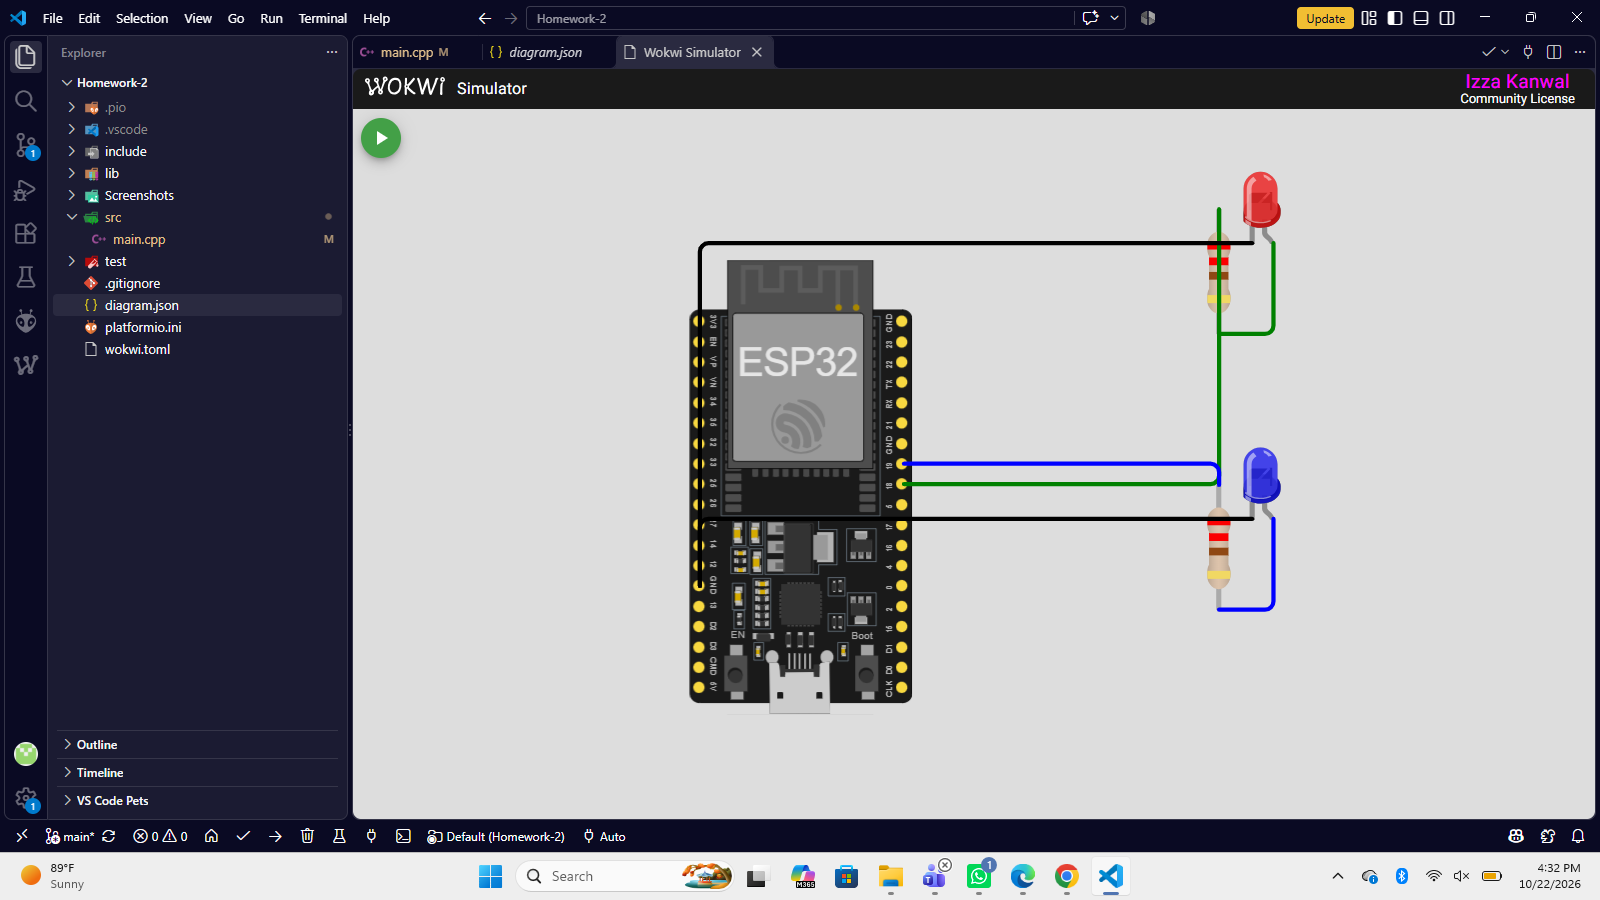
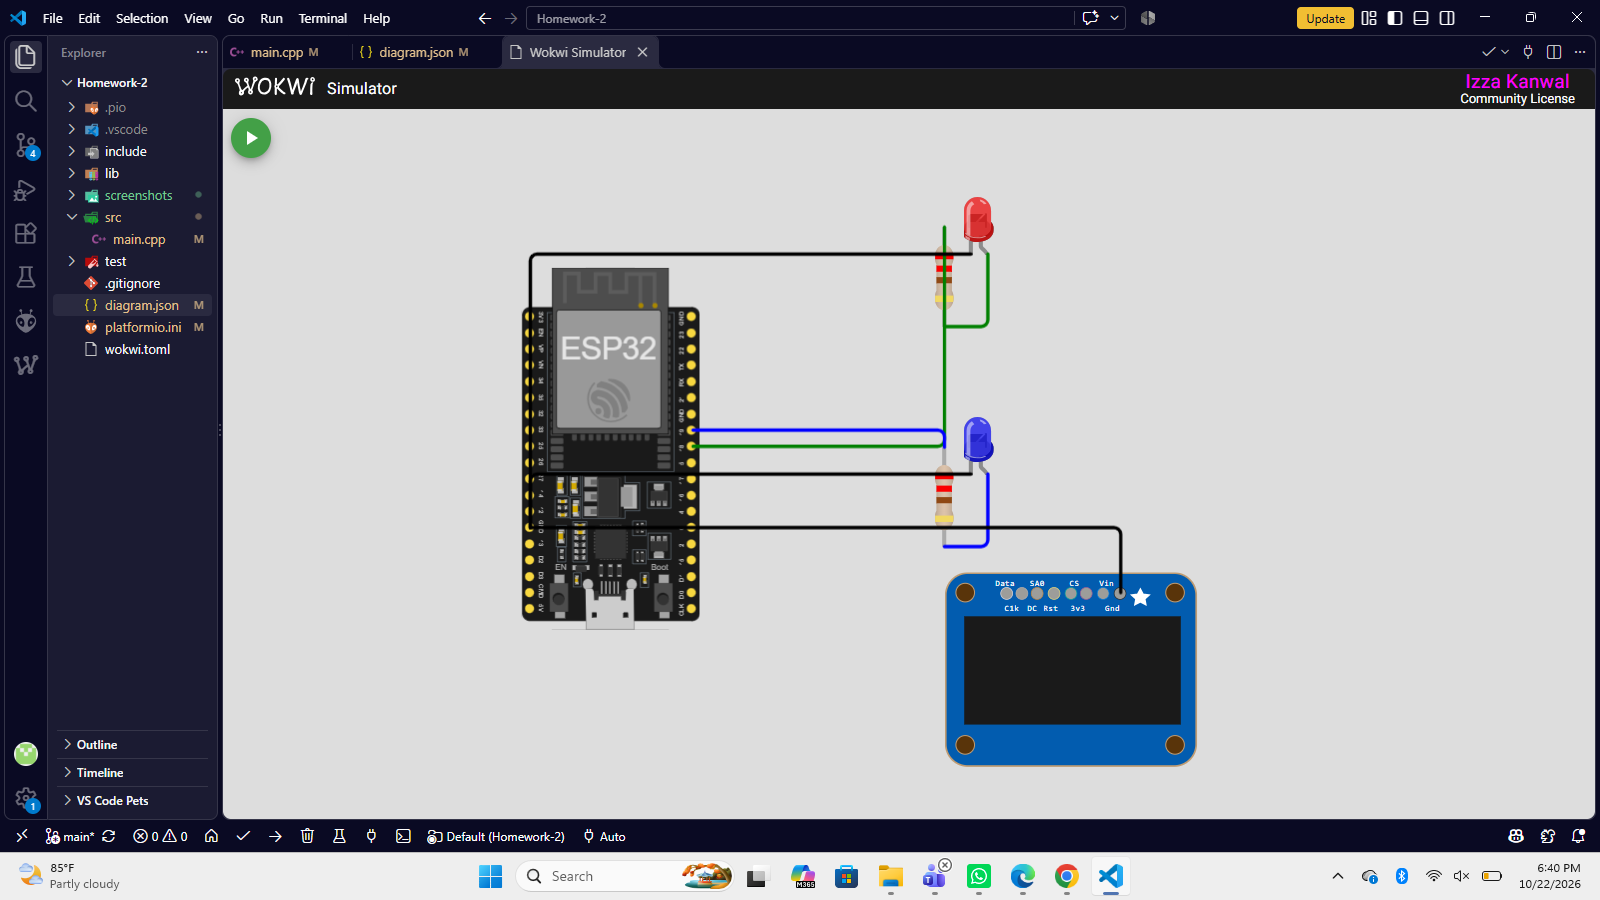
complete homework

diff --git a/Homework-2/src/main.cpp b/Homework-2/src/main.cpp
@@ -1,5 +1,8 @@
 
 #include <Arduino.h>
+#include <Wire.h>
+#include <Adafruit_GFX.h>
+#include <Adafruit_SSD1306.h>
 
 // LED GPIO pins
 const int LED1 = 18;
@@ -9,60 +12,119 @@ const int LED2 = 19;
 const int CHANNEL1 = 0;
 const int CHANNEL2 = 2;
 
-// Different PWM frequencies
+// PWM settings
 const int FREQ1 = 1000;
 const int FREQ2 = 5000;
 const int RESOLUTION = 8;
 
+// OLED settings
+#define SCREEN_WIDTH 128
+#define SCREEN_HEIGHT 64
+#define OLED_RESET -1
+#define OLED_ADDRESS 0x3C
+
+Adafruit_SSD1306 display(
+    SCREEN_WIDTH, SCREEN_HEIGHT, &Wire, OLED_RESET);
+
 // Duty-cycle values: 0 to 255
 int duty1 = 0;
-int duty2 = 0;
+int duty2 = 255;
+
+void updateOLED()
+{
+    int percent1 = (duty1 * 100) / 255;
+    int percent2 = (duty2 * 100) / 255;
+
+    display.clearDisplay();
+    display.setTextSize(1);
+    display.setTextColor(SSD1306_WHITE);
+
+    display.setCursor(0, 0);
+    display.println("PWM MONITOR");
+
+    display.setCursor(0, 18);
+    display.print("LED1: ");
+    display.print(percent1);
+    display.print("%");
+
+    display.setCursor(0, 28);
+    display.print("Freq: ");
+    display.print(FREQ1);
+    display.println(" Hz");
+
+    display.setCursor(0, 42);
+    display.print("LED2: ");
+    display.print(percent2);
+    display.print("%");
+
+    display.setCursor(0, 52);
+    display.print("Freq: ");
+    display.print(FREQ2);
+    display.println(" Hz");
+
+    display.display();
+}
 
 void setup()
 {
-  Serial.begin(115200);
+    Serial.begin(115200);
 
- 
-  double actualFreq1 = ledcSetup(CHANNEL1, FREQ1, RESOLUTION);
-  ledcAttachPin(LED1, CHANNEL1);
+    // Start I2C: SDA = GPIO 21, SCL = GPIO 22
+    Wire.begin(21, 22);
 
-  double actualFreq2 = ledcSetup(CHANNEL2, FREQ2, RESOLUTION);
-  ledcAttachPin(LED2, CHANNEL2);
+    if (!display.begin(SSD1306_SWITCHCAPVCC, OLED_ADDRESS))
+    {
+        Serial.println("OLED initialization failed!");
+        while (true)
+        {
+            delay(100);
+        }
+    }
 
-  Serial.printf("LED1 configured frequency: %.0f Hz\n", actualFreq1);
-  Serial.printf("LED2 configured frequency: %.0f Hz\n", actualFreq2);
+    display.clearDisplay();
+    updateOLED();
 
+    double actualFreq1 =
+        ledcSetup(CHANNEL1, FREQ1, RESOLUTION);
+    ledcAttachPin(LED1, CHANNEL1);
+
+    double actualFreq2 =
+        ledcSetup(CHANNEL2, FREQ2, RESOLUTION);
+    ledcAttachPin(LED2, CHANNEL2);
+
+    Serial.printf("LED1 configured frequency: %.0f Hz\n",
+                  actualFreq1);
+    Serial.printf("LED2 configured frequency: %.0f Hz\n",
+                  actualFreq2);
 }
 
 void loop()
 {
-  // Fade LED 1 up and LED 2 down
-  for (int duty = 0; duty <= 255; duty++)
-  {
-    duty1 = duty;
-    duty2 = 255 - duty;
-
-    ledcWrite(CHANNEL1, duty1);
-    ledcWrite(CHANNEL2, duty2);
-
-    if (duty % 25 == 0)
+    // LED1 fades up; LED2 fades down
+    for (int duty = 0; duty <= 255; duty++)
     {
-      Serial.printf("LED1 duty: %d, LED2 duty: %d\n",
-                    duty1, duty2);
+        duty1 = duty;
+        duty2 = 255 - duty;
+
+        ledcWrite(CHANNEL1, duty1);
+        ledcWrite(CHANNEL2, duty2);
+
+        updateOLED();
+
+        delay(10);
     }
 
-    delay(10);
-  }
+    // LED1 fades down; LED2 fades up
+    for (int duty = 255; duty >= 0; duty--)
+    {
+        duty1 = duty;
+        duty2 = 255 - duty;
 
-  // Fade LED 1 down and LED 2 up
-  for (int duty = 255; duty >= 0; duty--)
-  {
-    duty1 = duty;
-    duty2 = 255 - duty;
+        ledcWrite(CHANNEL1, duty1);
+        ledcWrite(CHANNEL2, duty2);
 
-    ledcWrite(CHANNEL1, duty1);
-    ledcWrite(CHANNEL2, duty2);
+        updateOLED();
 
-    delay(10);
-  }
+        delay(10);
+    }
 }

diff --git a/Homework-2/README.md b/Homework-2/README.md
@@ -1,0 +1,43 @@
+# Embedded IoT Homework 2
+
+## Task 1: PWM Control of Two LEDs
+
+### Description
+The ESP32 controls two LEDs using PWM. Both LEDs fade in opposite directions, using different PWM frequencies.
+
+- LED 1: GPIO 18, frequency 1000 Hz
+- LED 2: GPIO 19, frequency 5000 Hz
+- PWM resolution: 8-bit
+- Resistor: 220 ohms for each LED
+
+## Task 2: OLED PWM Monitor
+
+### Description
+An SSD1306 OLED display is used to monitor both LEDs. It displays their duty-cycle percentages and PWM frequencies while the LEDs fade.
+
+### OLED Connections
+- VCC: 3V3
+- GND: GND
+- SDA: GPIO 21
+- SCL: GPIO 22
+- I2C address: `0x3C`
+
+### Wokwi Simulation
+[Open the working Wokwi simulation](https://wokwi.com/projects/478586998694108161)
+
+### Screenshots
+- `screenshots/wokwi_circuit.png` — Complete Wokwi circuit
+- `screenshots/wokwi_running_pwm.png` — Task 1 simulation
+- `screenshots/wokwi_running_oled.png` — Task 2 simulation with OLED
+- `screenshots/hardware_circuit.jpeg` — Physical circuit
+- `screenshots/hardware_running_pwm.jpeg` — Task 1 physical test
+- `screenshots/hardware_running_oled.jpeg` — Task 2 physical test with OLED
+
+### Testing
+The simulation was tested to verify that both LEDs fade in opposite directions and the OLED displays the changing duty-cycle percentages and configured PWM frequencies.
+
+The physical hardware was tested successfully, and photographs were taken as evidence.
+
+## Comparison Between Wokwi and Physical Hardware
+
+The PWM project worked similarly in Wokwi simulation and on the physical ESP32 hardware. In both, the two LEDs faded in opposite directions, and the OLED displayed their duty-cycle percentages and PWM frequencies. Wokwi made it easy to test the circuit virtually, while physical hardware testing verified its operation with actual components.
